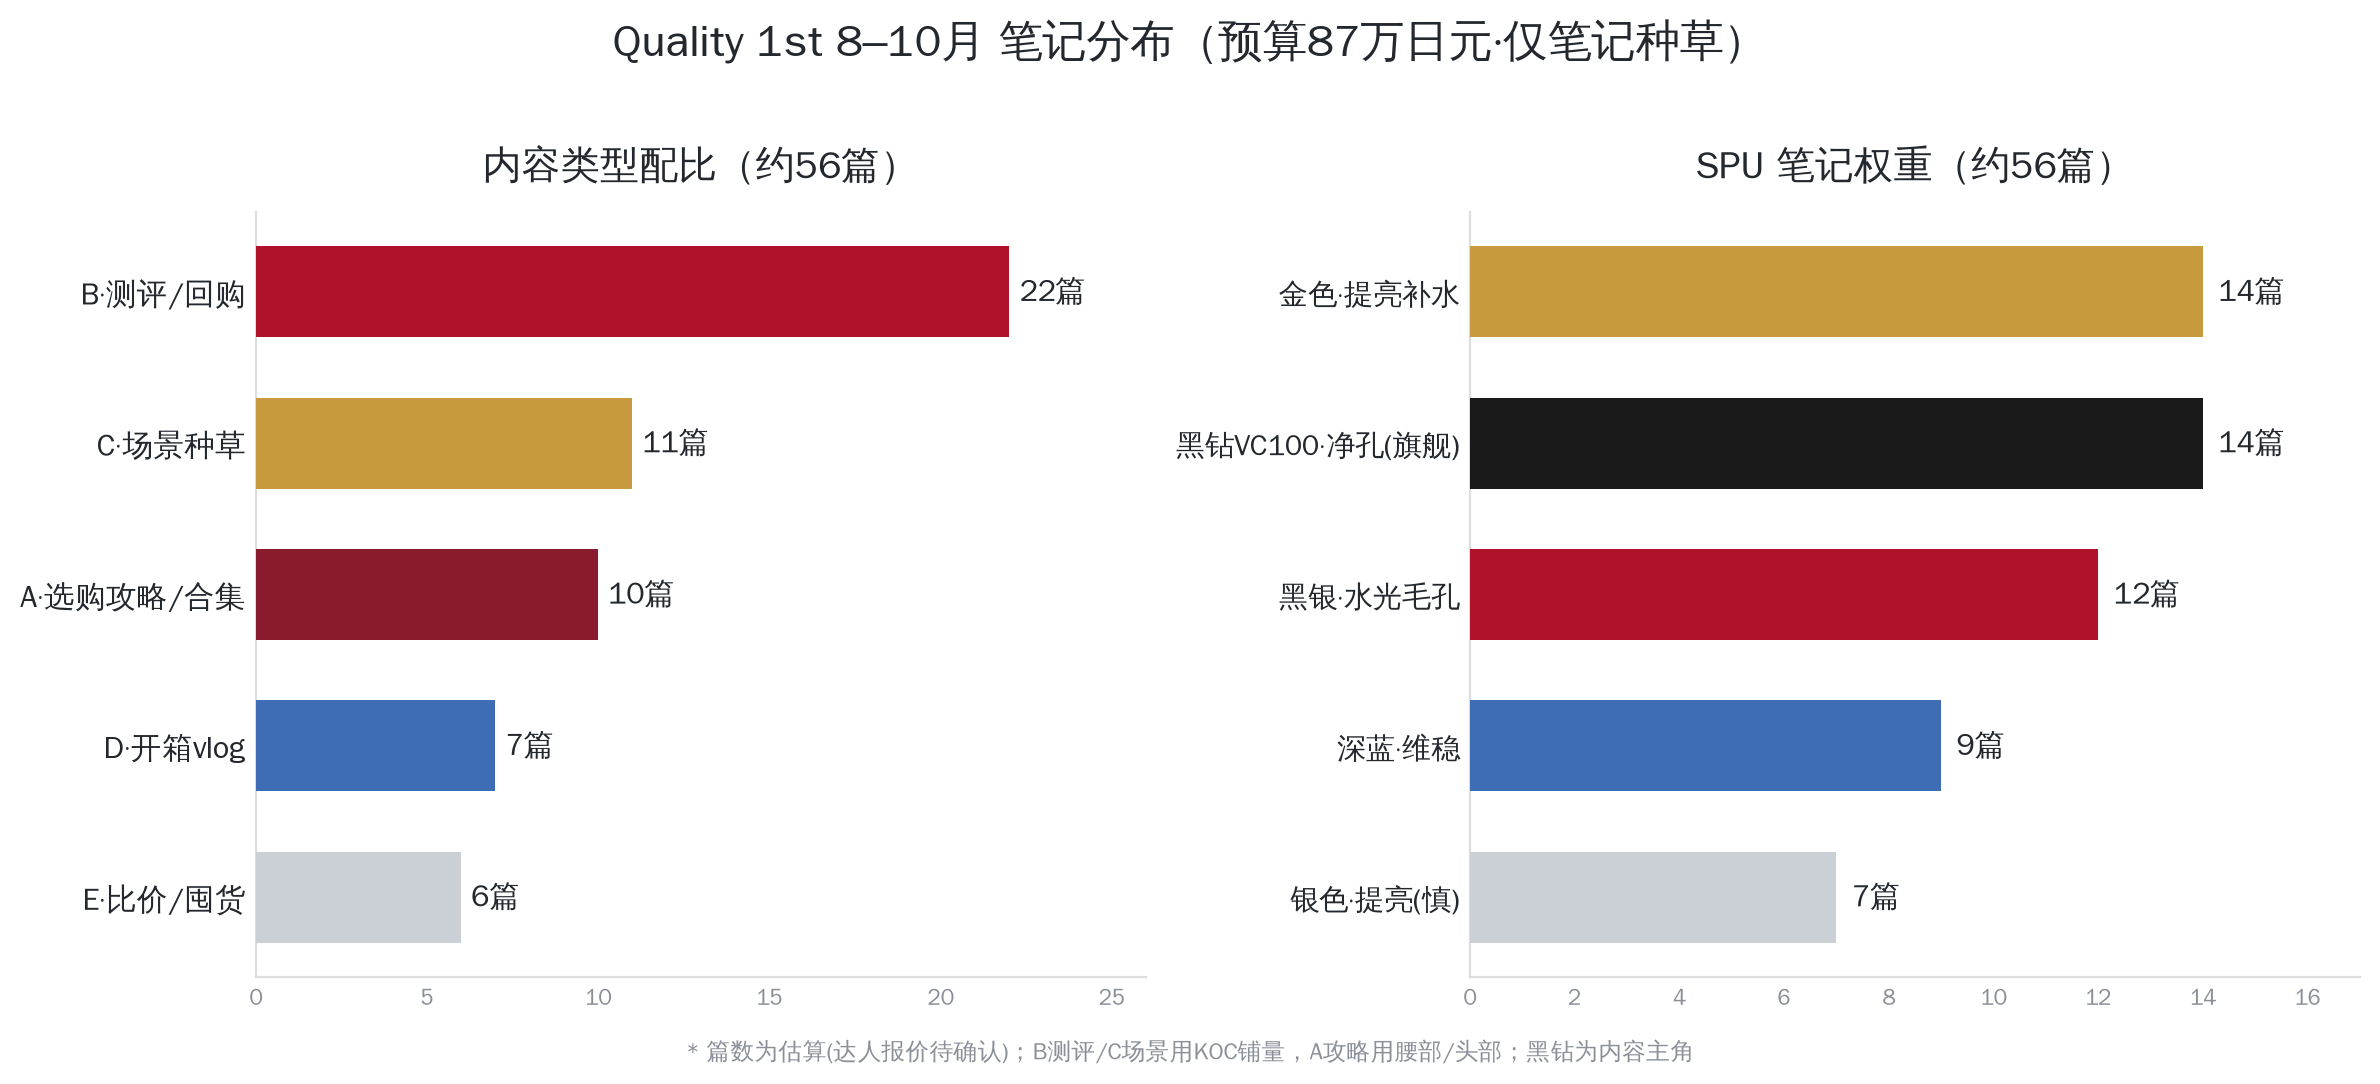
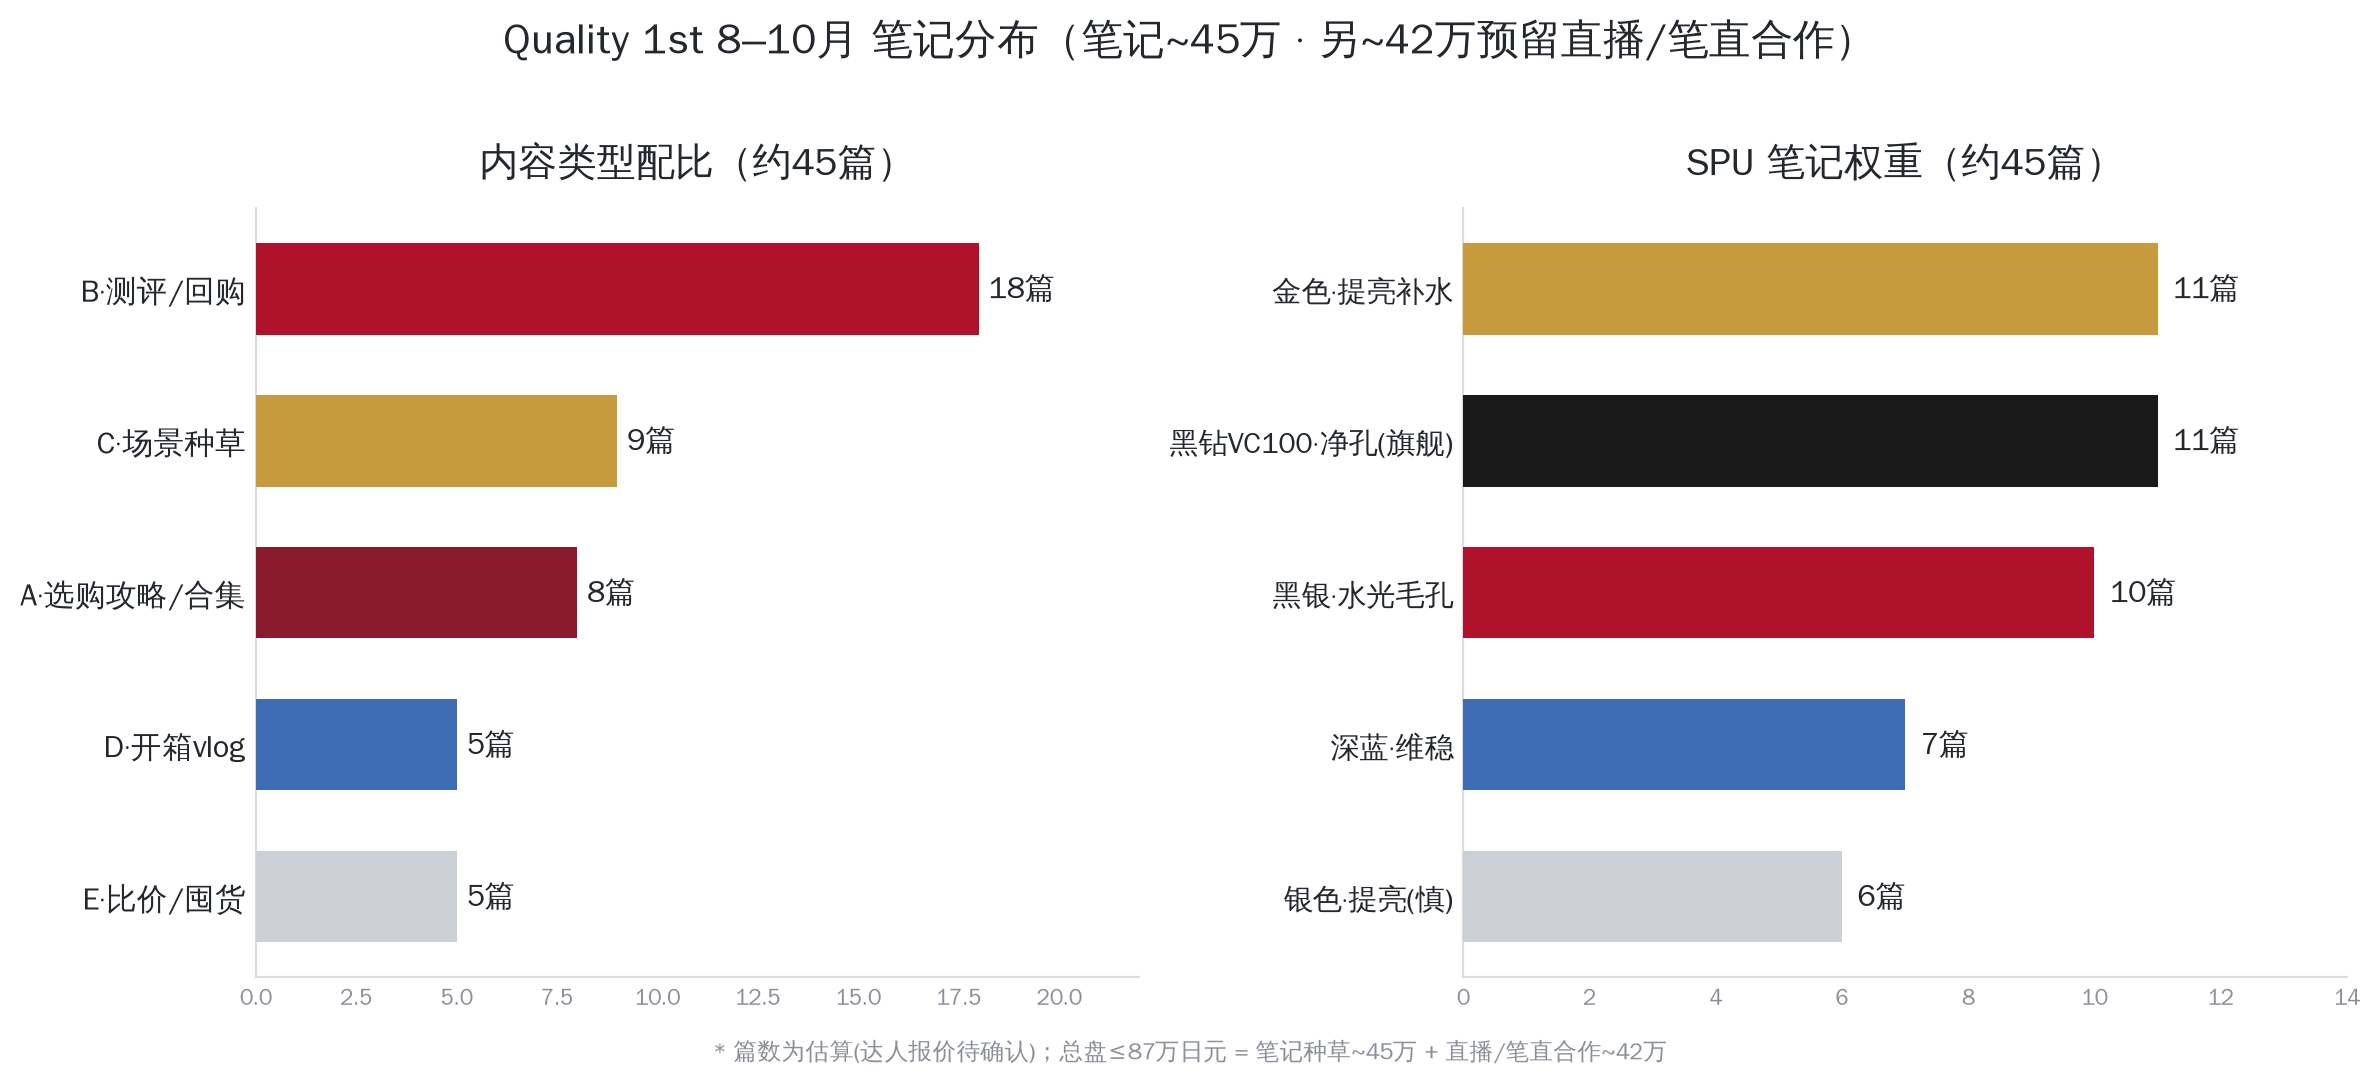
调整笔记预算至~45万(总盘≤87万,预留~42万给直播/笔直合作)
总盘拆分:笔记种草45万+直播/笔直合作42万;笔记篇数约45篇,
内容类型/SPU权重/月度排期同步下调;新增直播预留与待确认。

Claude-Session: https://claude.ai/code/session_013k95bYdAdK1fcM2etaM87V

diff --git a/docs/工作/04-营销推广/代运营-Quality1st/8-10月笔记投放/笔记分布与预算排期.md b/docs/工作/04-营销推广/代运营-Quality1st/8-10月笔记投放/笔记分布与预算排期.md
@@ -1,44 +1,53 @@
 # 8–10月 笔记分布 + 预算排期（第6点·收官）
 
 - **日期**：2026-07-31
-- **预算**：87万日元（仅笔记/站外种草；站外广告、站内广告另计）
+- **总盘（3个月 ≤87万日元）**：**笔记种草 ~45万** + **直播/笔直合作博主 ~42万（预留）**
 - **依据**：人群 + 竞品(lululun) + 笔记拆解 + 关键词库 + SPU设定
 - 配图：`02-8-10月笔记分布.png`
 
-## 一、笔记数量估算（约56篇）
+## 〇、总预算拆分（≤87万日元）
+| 板块 | 预算(万日元) | 说明 |
+|------|-------------|------|
+| **笔记种草** | ~45 | 本方案（KOC铺量+腰部+少量头部）|
+| **直播/笔直合作** | ~42（预留） | 部分博主走「笔记+直播」打包合作；待直播博主名单确认 |
+| 合计 | **≤87** | 灵活调剂 |
+
+> 注：若某博主为「笔直合作」（笔记+直播打包），其费用可从直播盘出，笔记盘更省。
+
+## 一、笔记数量估算（~45万 → 约45篇）
 > ⚠ 达人报价待确认，以下按假设估算，拿到真实报价后校准。
 
 | 达人层级 | 预算(万日元) | 假设单价(日元/篇) | 估算篇数 | 角色 |
 |---------|-------------|------------------|---------|------|
-| 头部KOL | 32 | ~200,000 | ~1–2 | 10月造势/背书 |
-| 腰部达人 | 27 | ~45,000 | ~6 | 选购攻略/爆文主力 |
-| 尾部/KOC | 28 | ~5,000 | ~48 | 铺量·测评·场景 |
-| **合计** | **87** | — | **~56篇** | — |
+| 头部KOL | 8 | ~200,000 | ~0–1 | 10月造势（或并入直播头部）|
+| 腰部达人 | 15 | ~45,000 | ~3–4 | 选购攻略/爆文主力 |
+| 尾部/KOC | 22 | ~5,000 | ~40 | 铺量·测评·场景 |
+| **合计** | **~45** | — | **~45篇** | — |
 
-## 二、内容类型配比（约56篇，接lululun规律）
+## 二、内容类型配比（约45篇，接lululun规律）
 | 类型 | 篇数 | 达人 | 说明 |
 |------|------|------|------|
-| B·测评/回购 | 22 | KOC/尾部 | 真人体感·信任·铺量主力 |
-| C·场景种草 | 11 | KOC/腰部 | 熬夜急救/妆前/换季，含**视频**(洼地) |
-| A·选购攻略/合集 | 10 | 腰部/头部 | **爆文引擎**·7+图·按肤质选·植入我们 |
-| D·开箱vlog | 7 | KOC | 日本好物/药妆店场景 |
-| E·比价/囤货 | 6 | KOC | 组合装直播价·囤货划算 |
+| B·测评/回购 | 18 | KOC/尾部 | 真人体感·信任·铺量主力 |
+| C·场景种草 | 9 | KOC/腰部 | 熬夜急救/妆前/换季，含**视频**(洼地) |
+| A·选购攻略/合集 | 8 | 腰部/头部 | **爆文引擎**·7+图·按肤质选·植入我们 |
+| D·开箱vlog | 5 | KOC | 日本好物/药妆店场景 |
+| E·比价/囤货 | 5 | KOC | 组合装直播价·囤货划算 |
 
-## 三、SPU 笔记权重（约56篇）
+## 三、SPU 笔记权重（约45篇）
 | SPU | 篇数 | 定位 |
 |-----|------|------|
-| 金色·提亮补水 | 14 | 走量爆款(库存300) |
-| **黑钻VC100·净孔** | 14 | **差异化旗舰·内容主角** |
-| 黑银·水光细毛孔 | 12 | 加强版走量(库存200) |
-| 深蓝·维稳补水 | 9 | 换季细分(库存50·先备货) |
-| 银色·提亮 | 7 | ⚠美白合规敏感·克制 |
+| 金色·提亮补水 | 11 | 走量爆款(库存300) |
+| **黑钻VC100·净孔** | 11 | **差异化旗舰·内容主角** |
+| 黑银·水光细毛孔 | 10 | 加强版走量(库存200) |
+| 深蓝·维稳补水 | 7 | 换季细分(库存50·先备货) |
+| 银色·提亮 | 6 | ⚠美白合规敏感·克制 |
 
-## 四、月度排期（8月蓄水→9月加热→10月冲刺）
-| 月 | 预算(万日元) | 节奏 | 重点动作 |
-|----|-------------|------|----------|
-| 8月 | 27 | **蓄水铺量** | KOC测评/场景铺量(~20篇)；测4个种子人群；金色+黑银为主 |
-| 9月 | 30 | **加热** | 优质选题加腰部；黑钻旗舰内容起量；A攻略合集上(~20篇) |
-| 10月 | 30 | **冲刺+双11蓄水** | 头部1–2篇造势；A攻略+E囤货放量；A3人群蓄水(~16篇) |
+## 四、月度排期（8蓄水→9加热→10冲刺）
+| 月 | 笔记预算(万日元) | 节奏 | 重点动作 |
+|----|----------------|------|----------|
+| 8月 | ~16 | **蓄水铺量** | KOC测评/场景铺量(~16篇)；测4个种子人群；金色+黑银为主 |
+| 9月 | ~15 | **加热** | 优质选题加腰部；黑钻旗舰内容起量；A攻略合集上(~16篇) |
+| 10月 | ~14 | **冲刺+双11蓄水** | 头部/笔直合作造势；A攻略+E囤货放量(~13篇) |
 
 ## 五、关键词落位（每类怎么埋）
 - 标题：长尾词(日本面膜怎么选/油皮面膜推荐) + 场景人群词；正文前3行埋1–2长尾词
@@ -49,11 +58,12 @@
 爆文率、笔记数、互动率、搜索排名(长尾词)、A3种草人群量、加购收藏、（导流后）天猫承接。
 
 ## 七、待确认
+- [ ] **直播/笔直合作博主名单与预算**（约42万如何分）
 - [ ] **达人真实报价**（头/腰/尾/KOC）→ 校准篇数
 - [ ] 深蓝库存(50)是否补货；银色是否弱化
-- [ ] 87万是否含内容制作费
+- [ ] 45万/42万是否含内容制作费
 
 ---
 ## ✅ 6维笔记投放规划 已完成
-① 人群分析 · ② 竞品(lululun) · ③ 笔记拆解 · ④ 关键词库 · ⑤ SPU设定 · ⑥ 笔记分布+排期
+① 人群 · ② 竞品(lululun) · ③ 笔记拆解 · ④ 关键词库 · ⑤ SPU设定 · ⑥ 笔记分布+排期
 （全部存于 `04-营销推广/代运营-Quality1st/8-10月笔记投放/`）
